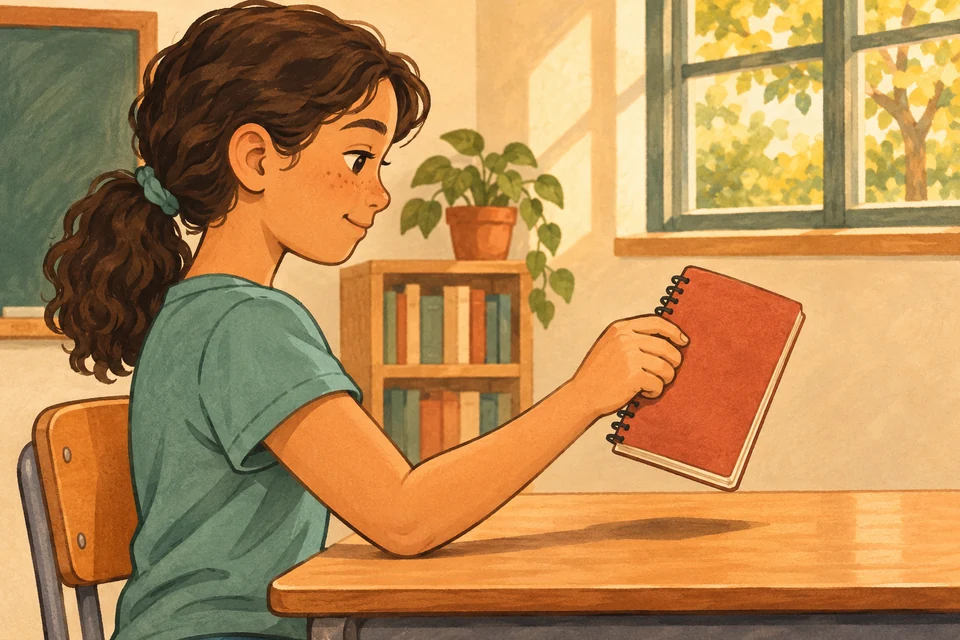
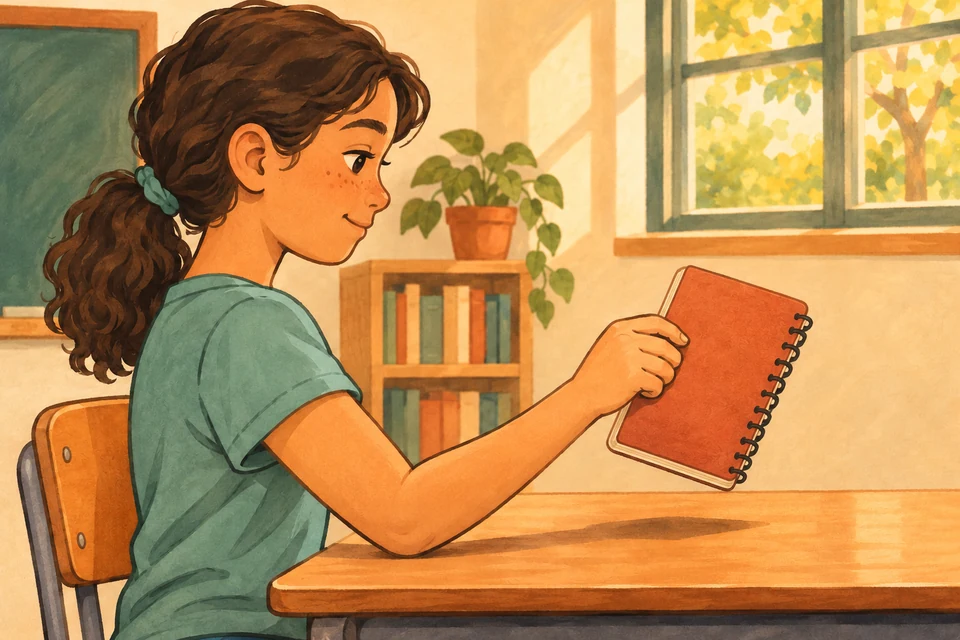
License Trama texts and update worksheet defaults

diff --git a/worksheet-code.js b/worksheet-code.js
@@ -6,7 +6,7 @@ export const imageDefaults = Object.freeze({ visible: true, width: 36, position:
 export const marginLimits = Object.freeze({ min: 8, max: 32 });
 export const maxAnswerLines = 8;
 export const answerStyles = Object.freeze({ blank: 'BLANC', lines: 'LINIES', dots: 'PUNTS', grid: 'QUADRICULA' });
-export const formatVersion = 2;
+export const formatVersion = 3;
 const legacyAnswerDefaults = { questionGap: 4, answerGap: 7, answerWeight: .2 };
 
 const numberIn = (min, max, step = 1) => value => Number.isFinite(value) && value >= min && value <= max
@@ -38,7 +38,7 @@ const fields = {
   answerWeight: [.15, numberIn(.1, .5, .05)],
   headerName: [true, boolean],
   headerDate: [true, boolean],
-  headerGroup: [true, boolean],
+  headerGroup: [false, boolean],
   headerLabel: [true, boolean],
   headerCustom: [false, boolean],
   headerTitle: ['', singleLine(80)],
@@ -47,6 +47,7 @@ const fields = {
   showImages: [true, boolean],
   showCode: [true, boolean],
   showOrigin: [true, boolean],
+  showLicense: [true, boolean],
   showPage: [true, boolean],
   footerLogo: ['', logo],
 };
@@ -54,7 +55,8 @@ const fields = {
 const marginKeys = ['marginTop', 'marginRight', 'marginBottom', 'marginLeft'];
 const sharedLayoutDefaults = { marginTop: 14, marginRight: 16, marginBottom: 10, marginLeft: 16, headerLogo: '' };
 const headerFlags = { headerName: 'NOM', headerDate: 'DATA', headerGroup: 'CURS', headerLabel: 'ETIQUETA', headerCustom: 'TEXT' };
-const footerFlags = { showCode: 'CODI', showOrigin: 'ORIGEN', showPage: 'PAGINA' };
+const legacyFooterFlags = { showCode: 'CODI', showOrigin: 'ORIGEN', showPage: 'PAGINA' };
+const footerFlags = { ...legacyFooterFlags, showLicense: 'LLICENCIA' };
 const legacyKeys = {
   f: 'font', s: 'fontSize', l: 'leading', p: 'paragraphGap', mt: 'marginTop', mr: 'marginRight',
   mb: 'marginBottom', ml: 'marginLeft', q: 'questionGap', a: 'answerLines', g: 'answerGap',
@@ -171,8 +173,11 @@ function readReadable(code, readings) {
   if (!reading) return null;
   const settings = Object.assign(defaultSettings(), sharedLayoutDefaults);
   const versionToken = tokens[0]?.toUpperCase();
-  const legacyFormat = tokens.length > 0 && versionToken !== `V=${formatVersion}`;
-  if (versionToken === `V=${formatVersion}`) tokens.shift();
+  const currentFormat = versionToken === `V=${formatVersion}`;
+  const versionTwo = versionToken === 'V=2';
+  const legacyFormat = tokens.length > 0 && !currentFormat && !versionTwo;
+  if (!currentFormat && tokens.length) settings.headerGroup = true;
+  if (currentFormat || versionTwo) tokens.shift();
   if (legacyFormat) Object.assign(settings, legacyAnswerDefaults);
   const questionIds = new Map(reading.questions.map(question => [upper(questionCode(question)), question.id]));
   const suffix = identifier.slice(baseCode(reading).length);
@@ -200,7 +205,8 @@ function readReadable(code, readings) {
       if (margins.length !== 4 || !margins.every(margin)) return null;
       marginKeys.forEach((key, index) => { settings[key] = margins[index]; });
     } else if (label === 'CAP' || label === 'PEU') {
-      if (!applyFlags(settings, label === 'CAP' ? headerFlags : footerFlags, upper(raw))) return null;
+      const flags = label === 'CAP' ? headerFlags : currentFormat ? footerFlags : legacyFooterFlags;
+      if (!applyFlags(settings, flags, upper(raw))) return null;
     } else if (label === 'AMAGA' || label === 'RES') {
       for (const entry of upper(raw).split(',')) {
         const [reference, value, extra] = entry.split(':');
@@ -232,6 +238,7 @@ function readLegacy(code, readings) {
   if (!reading) return null;
   const settings = defaultSettings();
   Object.assign(settings, sharedLayoutDefaults, legacyAnswerDefaults);
+  settings.headerGroup = true;
   settings.leading = 1.5;
   if (encoded === undefined) return { reading, settings: migrateAnswerFormat(settings, settings.paragraphGap) };
   if (!/^[a-zA-Z0-9_-]+$/.test(encoded)) return null;

diff --git a/worksheet.js b/worksheet.js
@@ -4,11 +4,12 @@ import { logoSource, tramaLogo } from './local-images.js';
 import { loadWorksheetFont, worksheetFonts } from './worksheet-fonts.js';
 
 const languageCopy = {
-  ca: ['Nom', 'Data', 'Curs', 'Comprensió lectora', 'Preguntes', 'Pàgina', 'Solucionari', 'Resposta orientativa', 'Sense resposta orientativa.'],
-  es: ['Nombre', 'Fecha', 'Curso', 'Comprensión lectora', 'Preguntas', 'Página', 'Solucionario', 'Respuesta orientativa', 'Sin respuesta orientativa.'],
-  en: ['Name', 'Date', 'Class', 'Reading comprehension', 'Questions', 'Page', 'Answer key', 'Suggested answer', 'No suggested answer.'],
+  ca: ['Nom', 'Data', 'Curs', 'Comprensió lectora', 'Preguntes', 'Pàgina', 'Solucionari', 'Resposta orientativa', 'Sense resposta orientativa.', 'Textos de Trama'],
+  es: ['Nombre', 'Fecha', 'Curso', 'Comprensión lectora', 'Preguntas', 'Página', 'Solucionario', 'Respuesta orientativa', 'Sin respuesta orientativa.', 'Textos de Trama'],
+  en: ['Name', 'Date', 'Class', 'Reading comprehension', 'Questions', 'Page', 'Answer key', 'Suggested answer', 'No suggested answer.', 'Texts by Trama'],
 };
 const wordsFor = language => languageCopy[language] || languageCopy[language.split('-')[0]] || languageCopy.en;
+const textLicense = 'creativecommons.org/licenses/by/4.0';
 
 function element(tag, className, text) {
   const node = document.createElement(tag);
@@ -165,19 +166,27 @@ export function worksheetThumbnail(reading, settings) {
 
 export function renderWorksheet(container, reading, settings, { answerKey = false, interactive = true } = {}) {
   const words = wordsFor(reading.language);
+  const showLicense = settings.showLicense && !reading.personal;
   const pages = [];
   let content;
   let footerHeight;
   container.replaceChildren();
 
   function fillFooter(footer, label) {
-    if (settings.showOrigin || settings.footerLogo) {
+    if (settings.showOrigin || showLicense || settings.footerLogo) {
       const brand = element('div', 'worksheet-footer-brand');
       if (settings.footerLogo) brand.append(makeLogo(settings.footerLogo));
       if (settings.showOrigin) {
         const origin = element('a', 'worksheet-origin', 'trama.ortogra.fi');
         origin.href = 'https://trama.ortogra.fi/';
         brand.append(origin);
+      }
+      if (showLicense) {
+        const credit = element('span', 'worksheet-license', `${words[9]} · `);
+        const license = element('a', 'worksheet-origin', `CC BY 4.0 (${textLicense})`);
+        license.href = `https://${textLicense}/`;
+        credit.append(license);
+        brand.append(credit);
       }
       footer.append(brand);
     }
@@ -199,7 +208,7 @@ export function renderWorksheet(container, reading, settings, { answerKey = fals
     paper.append(content, footer);
     slot.append(paper);
     container.append(slot);
-    if (pages.length === 0 && (settings.showOrigin || settings.showPage || settings.footerLogo || answerKey)) {
+    if (pages.length === 0 && (settings.showOrigin || showLicense || settings.showPage || settings.footerLogo || answerKey)) {
       fillFooter(footer, `${words[5]} 999 / 999`);
       footerHeight = footer.scrollHeight + 1;
       footer.replaceChildren();

diff --git a/locales/es.js b/locales/es.js
@@ -101,7 +101,7 @@ Text instructiu|Texto instructivo
 Entrevista|Entrevista
 Llegir, entendre i fer-se preguntes.|Leer, entender y hacerse preguntas.
 Un projecte d’|Un proyecto de
-v1.13 · Obre l’historial de canvis|v1.13 · Abrir el historial de cambios
+v1.13.1 · Obre l’historial de canvis|v1.13.1 · Abrir el historial de cambios
 12 de novembre de 2026|12 de noviembre de 2026
 L’Umami propi d’ortogra.fi compta les visites i les obertures de fitxes des del catàleg.|La instancia propia de Umami de ortogra.fi cuenta las visitas y las aperturas de fichas desde el catálogo.
 V4V · Sobre el projecte|V4V · Sobre el proyecto
@@ -120,6 +120,7 @@ Explora el meu portfoli ↗|Explorar mi portafolio ↗
 Codi, llicència i crèdits|Código, licencia y créditos
 Repositori de Trama ↗|Repositorio de Trama ↗
 Llicència MIT del codi ↗|Licencia MIT del código ↗
+Llicència CC BY 4.0 dels textos ↗|Licencia CC BY 4.0 de los textos ↗
 Icones de|Iconos de
 PDF amb|PDF con
 Crèdits de les tipografies ↗|Créditos de las tipografías ↗
@@ -127,6 +128,7 @@ Fotografia i QR reutilitzats de|Fotografía y QR reutilizados de
 Historial de versions|Historial de versiones
 Changelog complet ↗|Historial completo ↗
 Tanca l’historial|Cerrar el historial
+Els textos, les preguntes i les respostes de Trama es publiquen amb llicència CC BY 4.0, que apareix al peu de les fitxes. El camp de curs de l’encapçalament queda desactivat per defecte. També s’ha corregit la posició de l’espiral del quadern a la il·lustració de la L010.|Los textos, las preguntas y las respuestas de Trama se publican con licencia CC BY 4.0, que aparece en el pie de las fichas. El campo de curso de la cabecera queda desactivado por defecto. También se ha corregido la posición de la espiral del cuaderno en la ilustración de la L010.
 El catàleg arriba a 80 lectures amb 60 fitxes noves en castellà, 20 per a cadascun dels cursos de 4t a 6è de primària. Totes les noves tenen una il·lustració, solucionari i espai de resposta adaptat a cada pregunta.|El catálogo llega a 80 lecturas con 60 fichas nuevas en español, 20 para cada curso de 4.º a 6.º de primaria. Todas las nuevas tienen una ilustración, solucionario y espacio de respuesta adaptado a cada pregunta.
 La lectura L001, «El cartel de la plaza», incorpora una pregunta nova i una quarta pregunta d’inferència.|La lectura L001, «El cartel de la plaza», añade una pregunta y convierte la cuarta en una pregunta de inferencia.
 El catàleg es barreja en carregar la pàgina i manté el mateix ordre mentre es navega.|El catálogo se mezcla al cargar la página y mantiene el mismo orden durante la navegación.
@@ -202,6 +204,7 @@ Grup, unitat o instruccions breus|Grupo, unidad o instrucciones breves
 Peu de pàgina|Pie de página
 Peu|Pie
 Origen de la fitxa · trama.ortogra.fi|Origen de la ficha · trama.ortogra.fi
+Llicència dels textos · CC BY 4.0|Licencia de los textos · CC BY 4.0
 Número de pàgina|Número de página
 Contingut|Contenido
 Mostra el solucionari|Mostrar el solucionario

diff --git a/index.html b/index.html
@@ -110,7 +110,7 @@
         </a>
       </p>
       <div class="footer-actions">
-        <button class="footer-link footer-version" id="changelog-open" type="button" data-open-dialog="changelog-dialog" aria-haspopup="dialog" aria-controls="changelog-dialog" aria-label="v1.13 · Obre l’historial de canvis">v1.13</button>
+        <button class="footer-link footer-version" id="changelog-open" type="button" data-open-dialog="changelog-dialog" aria-haspopup="dialog" aria-controls="changelog-dialog" aria-label="v1.13.1 · Obre l’historial de canvis">v1.13.1</button>
         <button class="footer-link" id="about-open" type="button" data-open-dialog="about-dialog" aria-haspopup="dialog" aria-controls="about-dialog" aria-label="V4V · Sobre el projecte">
           <svg class="ui-icon" viewBox="0 0 24 24" aria-hidden="true"><path d="M20.8 4.6a5.5 5.5 0 0 0-7.8 0L12 5.7l-1.1-1.1a5.5 5.5 0 0 0-7.8 7.8l8.9 8.8 8.8-8.8a5.5 5.5 0 0 0 0-7.8Z"/><path d="m12 5.7-3 3a2 2 0 0 0 2.8 2.8l1.2-1.2 4.8 4.8"/></svg>
           V4V
@@ -190,6 +190,7 @@
           <ul class="project-links">
             <li><a href="https://github.com/aaronFortuno/trama" target="_blank" rel="noopener noreferrer">Repositori de Trama ↗</a></li>
             <li><a href="https://github.com/aaronFortuno/trama/blob/main/LICENSE" target="_blank" rel="noopener noreferrer">Llicència MIT del codi ↗</a></li>
+            <li><a href="https://creativecommons.org/licenses/by/4.0/" target="_blank" rel="noopener noreferrer">Llicència CC BY 4.0 dels textos ↗</a></li>
             <li>Icones de <a href="https://lucide.dev/" target="_blank" rel="noopener noreferrer">Lucide ↗</a></li>
             <li>PDF amb <a href="https://pdf-lib.js.org/" target="_blank" rel="noopener noreferrer">pdf-lib ↗</a></li>
             <li><a href="assets/fonts/README.md" target="_blank" rel="noopener noreferrer">Crèdits de les tipografies ↗</a></li>
@@ -209,6 +210,10 @@
       <button class="button close-button" type="button" data-close-dialog aria-label="Tanca l’historial"><svg class="ui-icon" viewBox="0 0 24 24" aria-hidden="true"><path d="m6 6 12 12M18 6 6 18"/></svg></button>
     </div>
     <div class="dialog-scroll" tabindex="0" role="region" aria-labelledby="changelog-title">
+      <article class="release">
+        <header><h3>v1.13.1</h3><time datetime="2026-11-13">13 de novembre de 2026</time></header>
+        <p>Els textos, les preguntes i les respostes de Trama es publiquen amb llicència CC BY 4.0, que apareix al peu de les fitxes. El camp de curs de l’encapçalament queda desactivat per defecte. També s’ha corregit la posició de l’espiral del quadern a la il·lustració de la L010.</p>
+      </article>
       <article class="release">
         <header><h3>v1.13</h3><time datetime="2026-11-13">13 de novembre de 2026</time></header>
         <p>El catàleg arriba a 80 lectures amb 60 fitxes noves en castellà, 20 per a cadascun dels cursos de 4t a 6è de primària. Totes les noves tenen una il·lustració, solucionari i espai de resposta adaptat a cada pregunta.</p>

diff --git a/studio.js b/studio.js
@@ -122,6 +122,7 @@ const template = `
           <summary>Peu de pàgina</summary>
           <div class="studio-controls">
             ${check('showOrigin', 'Origen de la fitxa · trama.ortogra.fi')}
+            ${check('showLicense', 'Llicència dels textos · CC BY 4.0')}
             ${check('showPage', 'Número de pàgina')}
             ${logoControls('footerLogo', 'Logotip del peu de pàgina')}
           </div>
@@ -209,6 +210,7 @@ export function mountStudio({ root, readings, onOpen, onCatalog, onVariant, onRe
   const translateMarkup = bindTranslations(root);
   const find = selector => root.querySelector(selector);
   const forms = [...root.querySelectorAll('.studio-form')];
+  const licenseControl = find('[name="showLicense"]').closest('label');
   const contentForm = find('.studio-content .studio-form');
   const pages = find('#studio-pages');
   const stage = find('.studio-paper-stage');
@@ -288,6 +290,7 @@ export function mountStudio({ root, readings, onOpen, onCatalog, onVariant, onRe
 
   function populateReading() {
     find('#studio-reading-menu [data-option="remove"]').hidden = !reading.personal;
+    licenseControl.hidden = Boolean(reading.personal);
     find('#studio-title').textContent = reading.title;
     find('#studio-title').lang = reading.language;
     find('#studio-reading-code').textContent = reading.code;

diff --git a/worksheet-templates.js b/worksheet-templates.js
@@ -8,7 +8,7 @@ export const templateGroups = [
   { id: 'margins', label: 'Marges del full', keys: ['marginTop', 'marginRight', 'marginBottom', 'marginLeft'], selected: true },
   { id: 'answers', label: 'Espai de resposta', keys: ['questionGap', 'answerLines', 'answerGap', 'answerStyle', 'answerWeight'], selected: true },
   { id: 'header', label: 'Encapçalament', keys: ['headerName', 'headerDate', 'headerGroup', 'headerLabel', 'headerCustom', 'headerTitle', 'headerDetail', 'headerLogo'] },
-  { id: 'footer', label: 'Peu de pàgina', keys: ['showOrigin', 'showPage', 'footerLogo'] },
+  { id: 'footer', label: 'Peu de pàgina', keys: ['showOrigin', 'showLicense', 'showPage', 'footerLogo'] },
   { id: 'images', label: 'Visibilitat d’il·lustracions', keys: ['showImages'] },
 ];
 

diff --git a/studio.css b/studio.css
@@ -270,6 +270,7 @@
 .worksheet-page-number { grid-column: 2; }
 .worksheet-footer-brand { grid-column: 1; display: flex; flex-wrap: wrap; align-items: center; gap: 1mm 2mm; }
 .worksheet-footer .worksheet-logo { width: 24mm; height: 6mm; }
+.worksheet-license { overflow-wrap: anywhere; }
 .worksheet-origin { color: #38584b; text-decoration: none; }
 .worksheet-print-outlet { display: none; }
 .worksheet-export-layout { position: fixed; top: 0; left: -10000px; width: 210mm; visibility: hidden; pointer-events: none; }

diff --git a/assets/readings/L009-L012-illustracions.md b/assets/readings/L009-L012-illustracions.md
@@ -16,6 +16,12 @@ Use case: scientific-educational. Close, gently elevated oblique view of a sands
 
 ## L010 · musculos-codo.webp
 
+La versió publicada posa l’espiral a la vora exterior del quadern i deixa la vora sense enquadernar a la mà de l’alumna.
+
+```text
+Precise object-only retouch of this original illustration. Preserve every visible pixel of the girl's original hand, including all four curled fingers, their original silhouettes, knuckles, fingernails, position, handedness and shadows. Preserve the forearm, wrist, elbow, body, pose and whole room as in the reference. Do not redraw, mirror, flip, reposition or reinterpret her hand or arm. Work exclusively on the exposed surface of the notebook, using its existing four corners and orange cover. Remove the black coil loops from the exposed left edge above and below her hand, replacing those loops with the original book's orange edge and a slim cream paper stack. Put the same type of black coil loops along the far right long slanted edge of the orange notebook, furthest from the girl. Her original fingers remain exactly where they are on the near edge of the cover, overlaid in front. The hand is a locked foreground layer. Change only the book's binding position, with original painting texture, light, proportions and 3:2 framing.
+```
+
 ```text
 Use case: scientific-educational. In a simple classroom, one ten-year-old in profile gently lifts a small notebook from a desk by bending an elbow, clearly showing the forearm and elbow in a natural pose. Show a plain short-sleeved shirt, an uncluttered desk and warm window light. One coherent scene with anatomically plausible hands and arms. No diagram, cutaway, arrows, repeated arms or overlays. Asset type: landscape illustration for a printable fifth-grade reading worksheet and web card. Full-bleed wide composition around 3:2, centered important details safe for a wider crop. Restrained editorial picture-book style: clean softly textured gouache shapes, dark muted outlines, warm cream, terracotta and muted teal or sage. Strong value contrast, clear even when printed small in grayscale. No text, lettering, numbers, border, watermark or labels.
 ```

diff --git a/README.md b/README.md
@@ -70,6 +70,8 @@ Trama funciona al navegador. Els recursos se serveixen des del mateix web. El pr
 
 ## Llicència i crèdits
 
+Els textos, les preguntes i les respostes orientatives originals del catàleg es publiquen sota [Creative Commons Reconeixement 4.0 Internacional (CC BY 4.0)](https://creativecommons.org/licenses/by/4.0/). Atribueix el material a [Trama](https://trama.ortogra.fi/) i indica els canvis si l’adaptes. L’avís del peu de les fitxes correspon a aquests textos. Les il·lustracions, els recursos de tercers i les lectures que importis queden fora d’aquest avís.
+
 El codi de Trama es distribueix sota la [llicència MIT](LICENSE). Algunes icones de la interfície són de [Lucide](https://lucide.dev/) i es distribueixen amb els seus [avisos de llicència](assets/icons/LICENSE). La descàrrega de PDF fa servir [pdf-lib](https://pdf-lib.js.org/), amb la seva [llicència MIT](assets/vendor/pdf-lib.LICENSE.md). La fotografia de l’autor i el QR del V4V provenen de [Plec](https://github.com/aaronFortuno/plec-dictats).
 
 Les tipografies incloses al web tenen els seus [crèdits i llicències](assets/fonts/README.md).

diff --git a/CHANGELOG.md b/CHANGELOG.md
@@ -1,5 +1,9 @@
 # Historial de Trama
 
+## 1.13.1 · 13 de novembre de 2026
+
+Els textos, les preguntes i les respostes de Trama es publiquen amb llicència CC BY 4.0, que apareix al peu de les fitxes. El camp de curs de l’encapçalament queda desactivat per defecte. També s’ha corregit la posició de l’espiral del quadern a la il·lustració de la L010.
+
 ## 1.13 · 13 de novembre de 2026
 
 El catàleg arriba a 80 lectures amb 60 fitxes noves en castellà, 20 per a cadascun dels cursos de 4t a 6è de primària. Totes les noves tenen una il·lustració, solucionari i espai de resposta adaptat a cada pregunta.
